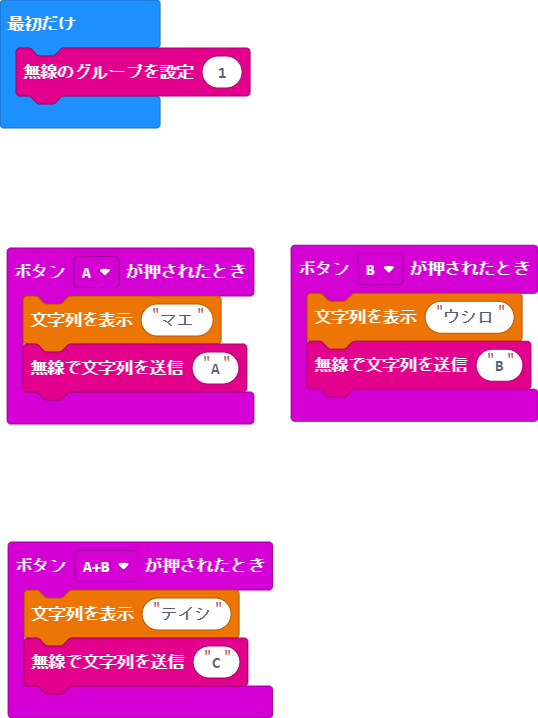
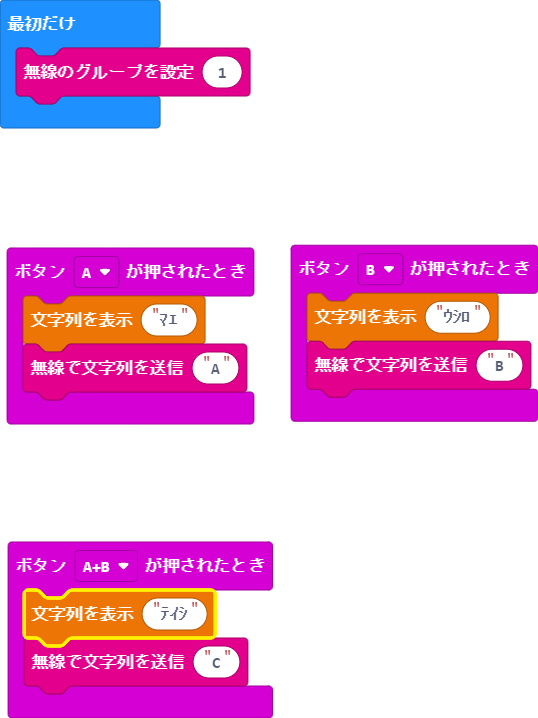
半角

diff --git a/main.ts b/main.ts
@@ -1,13 +1,13 @@
 input.onButtonPressed(Button.A, function () {
-    katakana.showString("マエ")
+    katakana.showString("ﾏｴ")
     radio.sendString("A")
 })
 input.onButtonPressed(Button.AB, function () {
-    katakana.showString("テイシ")
+    katakana.showString("ﾃｲｼ")
     radio.sendString("C")
 })
 input.onButtonPressed(Button.B, function () {
-    katakana.showString("ウシロ")
+    katakana.showString("ｳｼﾛ")
     radio.sendString("B")
 })
 radio.setGroup(1)
